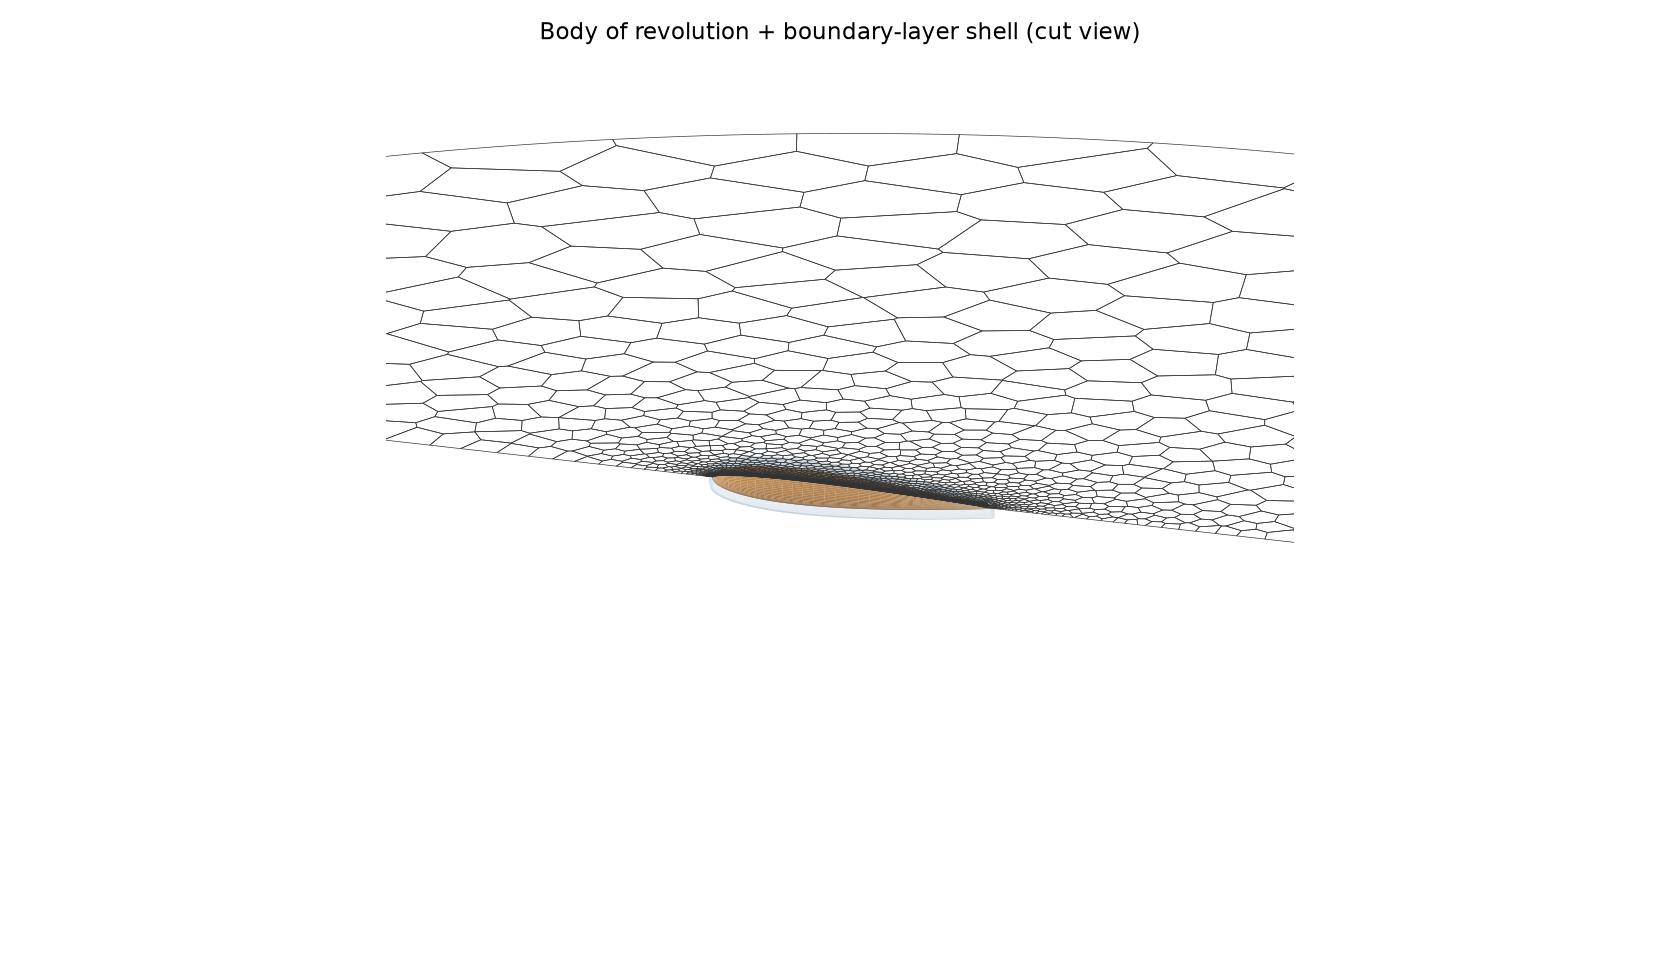
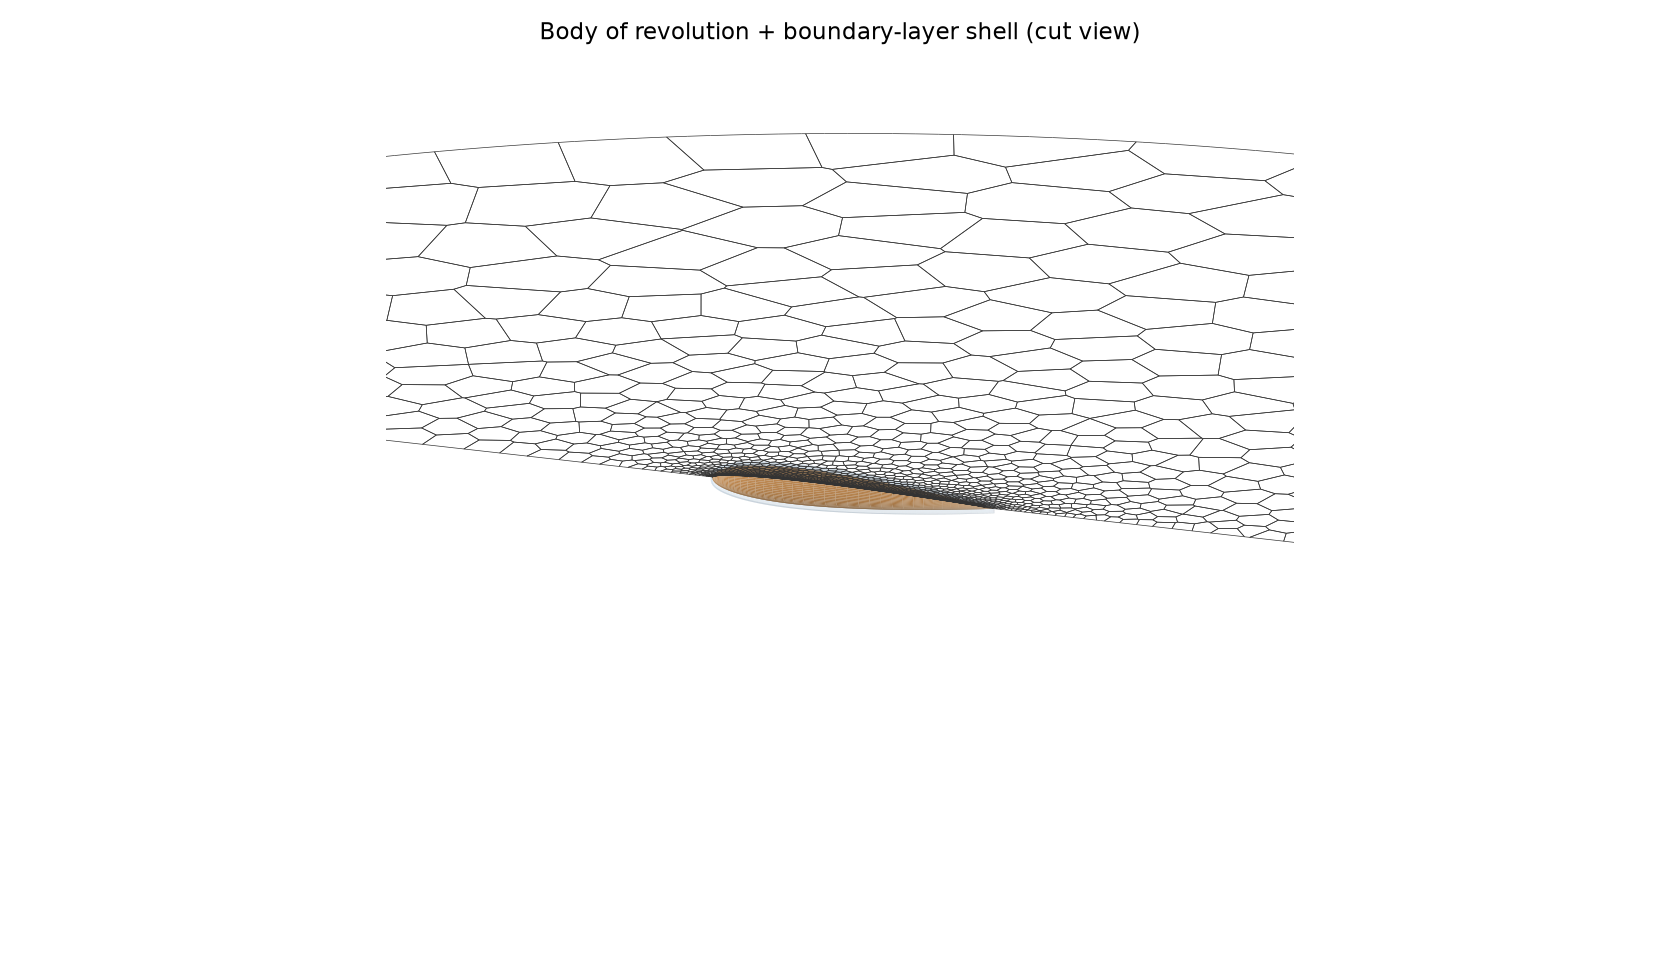
Axisymmetric case: thin prism layer, 1:1 prism->poly, better TE aspect ratio
- Thin the body-of-revolution boundary layer (total ~0.015 vs the ~0.06 body
  radius) and match the prism tangential step to the near-body core size
  (~0.006) so the prism->polyhedral interface is a clean ~1:1 like the airfoil.
- The thinner layer removes the stretched / high-aspect-ratio cells at the
  trailing edge; the near wake is now regular polyhedra.
- Refresh sphere preview images (add the 1:1 transition view) and 3D shell.

Claude-Session: https://claude.ai/code/session_01H7fb4XKKcHpsxCit9RfSzp

diff --git a/src/main.cpp b/src/main.cpp
@@ -196,8 +196,8 @@ static void caseSphereAxi() {
     L.nodes = nodes;
     L.patch = patch;
     L.hole = false;
-    L.hBnd = 0.01;
-    L.prism = PrismSpec{15, 0.0015, 1.05};   // total ~0.032 (thin vs body radius)
+    L.hBnd = 0.006;                           // tangential step ~ core size (1:1)
+    L.prism = PrismSpec{15, 0.0007, 1.05};    // thin layer, total ~0.015
     // prism only on the body surface (skip the axis, the farfield arc and the
     // small blunt-tail base)
     auto same = [](const Vec2& p, const Vec2& q) { return dist(p, q) < 1e-9; };

diff --git a/scripts/plot_revolve.py b/scripts/plot_revolve.py
@@ -102,7 +102,7 @@ def bodyview(path, out):
     ax.plot_surface(X, Y, Z, color="#d98a3a", alpha=1.0, linewidth=0)
 
     # boundary-layer shell (body offset by the prism-band thickness), translucent
-    band = 0.032
+    band = 0.015
     Xb, Yb, Zb = revolve(x, np.where(r > 1e-6, r + band, r), 90, 0, 1.5*math.pi)
     ax.plot_surface(Xb, Yb, Zb, color="#8fbfe8", alpha=0.18, linewidth=0)
 

diff --git a/README.md b/README.md
@@ -59,6 +59,11 @@ pravidelného polyhedrálního úplavu bez špatných elementů:
 
 ![Detail odtokové hrany](docs/images/sphere_te.png)
 
+Tenká mezní vrstva se sladěným tangenciálním krokem → spojitý přechod
+1 prisma → 1 polyhedron, jako u profilu:
+
+![Přechod prism → polyhedra](docs/images/sphere_transition.png)
+
 Orotováním této 2D sítě kolem osy vznikne 3D síť (v OpenFOAM `wedge`):
 
 | těleso + shell mezní vrstvy | těleso v kouli |
